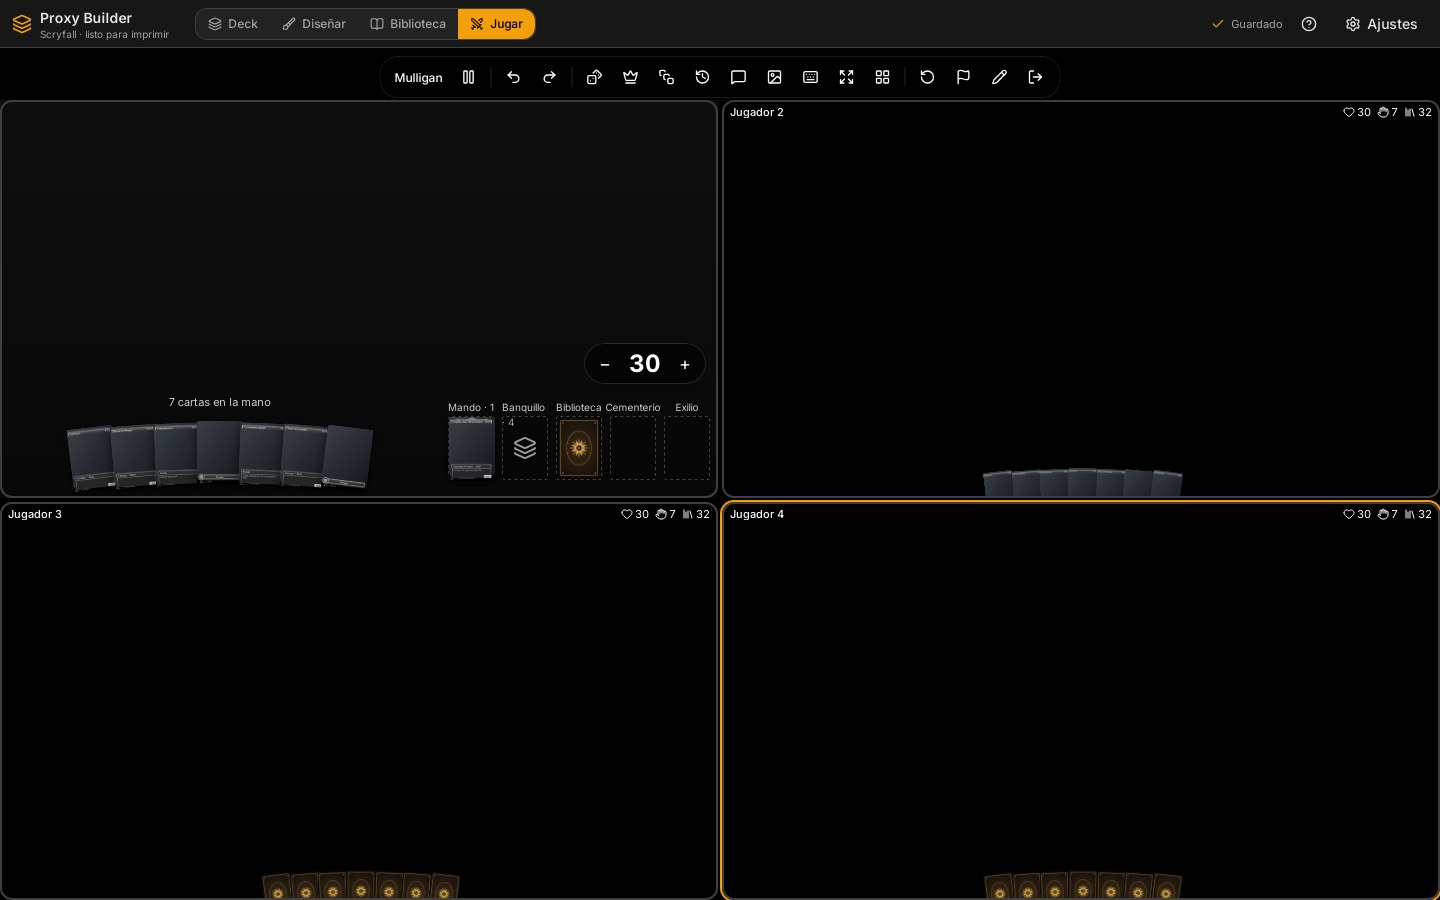
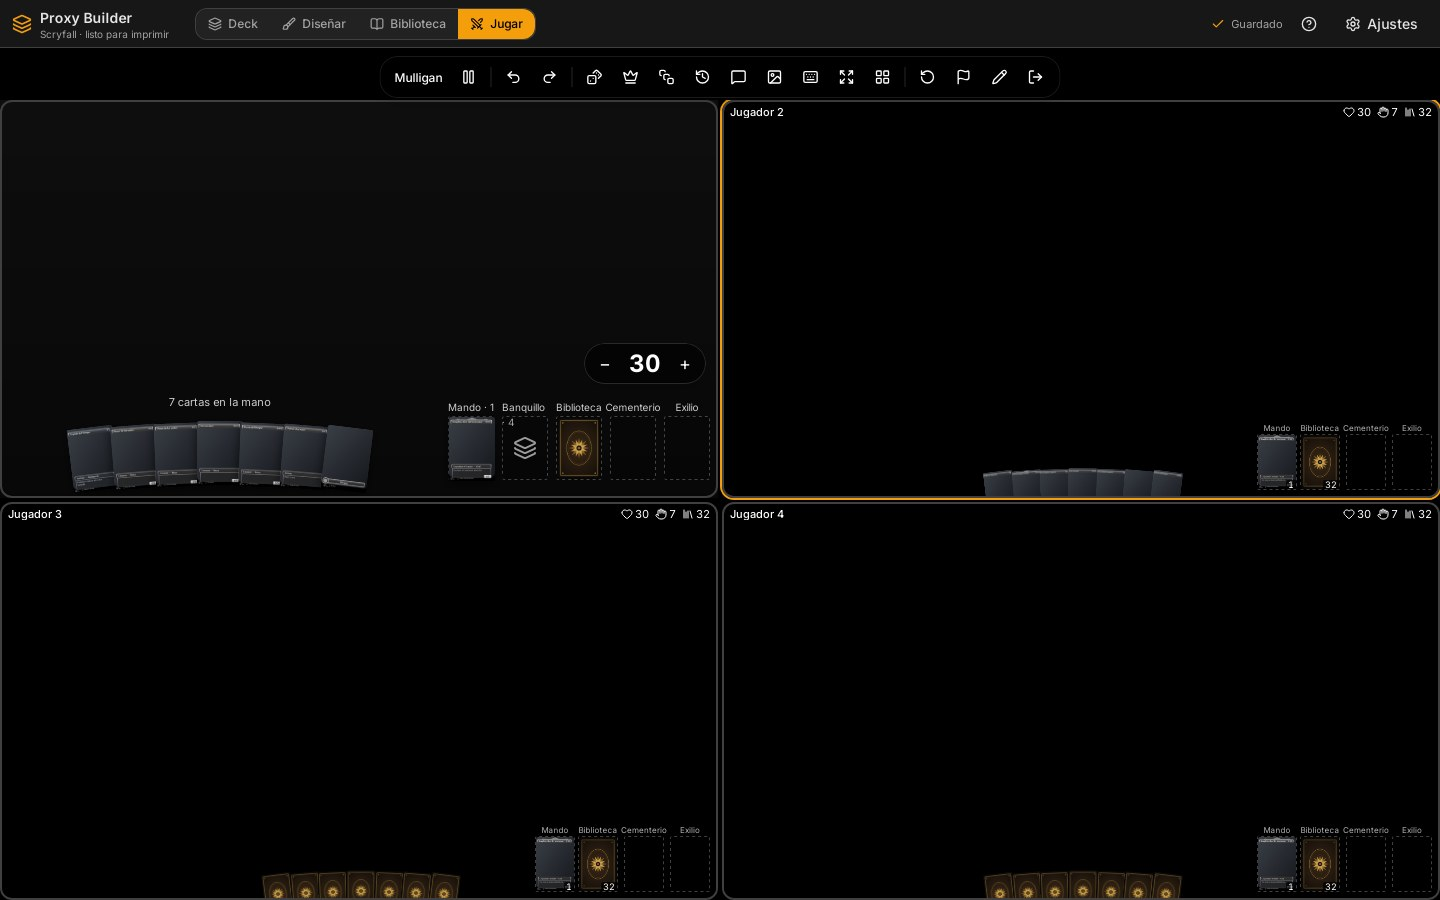
Mesa: las miniaturas enseñan mando, biblioteca, cementerio y exilio como tu tablero; parches del wiki
Claude-Session: https://claude.ai/code/session_01X7oLZsQ3STyBm3NGJHyhVB

diff --git a/src/features/mesa/tablero-mini.tsx b/src/features/mesa/tablero-mini.tsx
@@ -34,9 +34,15 @@ type DatosMini = {
 	/** Las cartas de la mano que este mirador ve (la de un compañero); el resto, reversos. */
 	manoVista: VistaCarta[];
 	biblioteca: number;
+	/** La de arriba de cada zona a la vista (la última de la lista) y cuántas hay. */
+	cementerio: ArribaMini;
+	exilio: ArribaMini;
+	mando: ArribaMini;
 	activo: boolean;
 	equipo: Equipo | undefined;
 };
+
+type ArribaMini = { carta: VistaCarta | null; n: number };
 
 /** Lo que enseña la miniatura de `jugador`, sacado de la mesa. */
 export function datosMini(
@@ -54,15 +60,30 @@ export function datosMini(
 		const c = m.cartas[id];
 		if (c) manoVista.push(c);
 	}
+	const arriba = (zona: "cementerio" | "exilio" | "mando"): ArribaMini => {
+		const ids = cartasDe(m, zonaDe(jugador, zona));
+		const id = ids[ids.length - 1];
+		return {
+			carta: id !== undefined ? (m.cartas[id] ?? null) : null,
+			n: cuantasEn(m, zonaDe(jugador, zona)),
+		};
+	};
 	return {
 		j,
 		campo,
+		cementerio: arriba("cementerio"),
+		exilio: arriba("exilio"),
+		mando: arriba("mando"),
 		mano: cuantasEn(m, zonaDe(jugador, "mano")),
 		manoVista,
 		biblioteca: cuantasEn(m, zonaDe(jugador, "biblioteca")),
 		activo: m.general?.turno.activo === jugador,
 		equipo: j?.equipo != null ? m.general?.equipos.find((e) => e.id === j.equipo) : undefined,
 	};
+}
+
+function igualArriba(a: ArribaMini, b: ArribaMini): boolean {
+	return a.carta === b.carta && a.n === b.n;
 }
 
 /** Dos lecturas de la misma miniatura que se pintarían igual. */
@@ -72,6 +93,9 @@ export function igualMini(a: DatosMini, b: DatosMini): boolean {
 		a.mano === b.mano &&
 		igualesLista(a.manoVista, b.manoVista) &&
 		a.biblioteca === b.biblioteca &&
+		igualArriba(a.cementerio, b.cementerio) &&
+		igualArriba(a.exilio, b.exilio) &&
+		igualArriba(a.mando, b.mando) &&
 		a.activo === b.activo &&
 		a.equipo === b.equipo &&
 		igualesLista(a.campo, b.campo)
@@ -161,6 +185,7 @@ export const TableroMini = memo(function TableroMini({
 						)}
 					</span>
 					{conCampo && d.mano > 0 && <ManoMini d={d} w={w} ancho={ancho} />}
+					{conCampo && <ZonasMini d={d} w={w} h={h} ancho={ancho} />}
 					{conCampo &&
 						d.campo.map((c) => {
 							if (!c.pos || c.adjuntaA !== null || c.agrupadaBajo !== null) return null;
@@ -258,3 +283,94 @@ function ManoMini({ d, w, ancho }: { d: DatosMini; w: number; ancho: number }) {
 		</span>
 	);
 }
+
+/**
+ * Las zonas de un jugador en pequeño, como en el tablero grande: el mando, la
+ * biblioteca (con su reverso) y el cementerio y el exilio con la carta de
+ * arriba boca arriba (si se ve), cada una con cuántas tiene. En una
+ * miniatura ancha van en fila abajo a la derecha, con su nombre, como en tu
+ * tablero; en una estrecha, en columna a la derecha.
+ */
+function ZonasMini({ d, w, h, ancho }: { d: DatosMini; w: number; h: number; ancho: number }) {
+	const { t } = useLang();
+	const zonas: {
+		clave: string;
+		nombre: string;
+		carta: VistaCarta | null;
+		n: number;
+		dorso?: boolean;
+	}[] = [];
+	if (d.mando.n > 0) zonas.push({ clave: "mando", nombre: t("Mando"), ...d.mando });
+	zonas.push({
+		clave: "biblioteca",
+		nombre: t("Biblioteca"),
+		carta: null,
+		n: d.biblioteca,
+		dorso: true,
+	});
+	zonas.push({ clave: "cementerio", nombre: t("Cementerio"), ...d.cementerio });
+	zonas.push({ clave: "exilio", nombre: t("Exilio"), ...d.exilio });
+	const enFila = w >= FILA_ZONAS;
+	const altoMax = (Math.max(14, Math.min(ancho * 1.1, 40)) * 88) / 63;
+	let th: number;
+	if (enFila) {
+		th = Math.min(altoMax, (h - CABECERA) * 0.3);
+	} else {
+		// Lo que queda entre la cabecera y la franja de la mano.
+		const cwMano = Math.max(12, Math.min(ancho, 30));
+		const franja = d.mano > 0 ? ((cwMano * 88) / 63) * 0.62 + 4 : 0;
+		const hueco = h - CABECERA - franja - 6;
+		th = Math.min(altoMax, (hueco - (zonas.length - 1) * 3) / zonas.length);
+	}
+	if (th < 14) return null;
+	const tw = (th * 63) / 88;
+	const conNombre = enFila && th >= 34;
+	return (
+		<span
+			className={cn(
+				"pointer-events-none absolute z-[9100] flex gap-[3px]",
+				enFila ? "right-1.5 bottom-1.5 items-end" : "right-1 flex-col",
+			)}
+			style={enFila ? undefined : { top: CABECERA + 3 }}
+		>
+			{zonas.map((z) => (
+				<span key={z.clave} className="flex flex-col items-center gap-0.5">
+					{conNombre && (
+						<span className="text-[8px] leading-none whitespace-nowrap text-white/70">
+							{z.nombre}
+						</span>
+					)}
+					<span
+						className="pointer-events-auto relative block overflow-hidden rounded-[2px] border border-dashed border-white/25 bg-black/50"
+						style={{ width: tw, height: th }}
+						aria-label={`${z.nombre}: ${z.n}`}
+						data-zona={z.clave}
+						onPointerEnter={() => z.carta && useMesa.getState().setSobre(z.carta.id)}
+						onPointerLeave={() => {
+							if (z.carta && useMesa.getState().sobre === z.carta.id)
+								useMesa.getState().setSobre(null);
+						}}
+					>
+						{z.dorso && z.n > 0 ? (
+							d.j?.dorso ? (
+								<ImagenCarta imagen={d.j.dorso} ancho={146} />
+							) : (
+								<DorsoGenerico />
+							)
+						) : z.carta ? (
+							<ImagenCarta imagen={caraVisible(z.carta)} ancho={146} />
+						) : null}
+						{z.n > 0 && (
+							<span className="absolute right-0 bottom-0 rounded-tl-[2px] bg-black/75 px-0.5 text-[9px] leading-none tabular-nums">
+								{z.n}
+							</span>
+						)}
+					</span>
+				</span>
+			))}
+		</span>
+	);
+}
+
+/** Desde este ancho, las zonas de una miniatura van en fila (como en tu tablero). */
+const FILA_ZONAS = 400;

diff --git a/src/features/mesa/__tests__/tablero-mini.test.ts b/src/features/mesa/__tests__/tablero-mini.test.ts
@@ -65,6 +65,26 @@ describe("datosMini", () => {
 		expect(d.equipo).toBeUndefined();
 	});
 
+	it("de cementerio, exilio y mando, la de arriba (la última) y cuántas hay", () => {
+		const m = mesa();
+		m.cartas[20] = carta(20);
+		m.cartas[21] = carta(21);
+		m.cartas[30] = carta(30);
+		Object.assign(m.zonas, {
+			"1:cementerio": {
+				zona: { tipo: "de", jugador: 1, zona: "cementerio" },
+				cartas: [20, 21],
+				cuantas: 2,
+			},
+			"1:mando": { zona: { tipo: "de", jugador: 1, zona: "mando" }, cartas: [30], cuantas: 1 },
+		});
+		const d = datosMini(m, 1);
+		expect(d.cementerio.carta?.id).toBe(21);
+		expect(d.cementerio.n).toBe(2);
+		expect(d.mando.carta?.id).toBe(30);
+		expect(d.exilio).toEqual({ carta: null, n: 0 });
+	});
+
 	it("ignora las cartas del campo que no están en la mesa", () => {
 		const m = mesa();
 		delete m.cartas[11];

diff --git a/CLAUDE.md b/CLAUDE.md
@@ -253,7 +253,10 @@ le falta una cadena le sale la inglesa.
   con equipos los compañeros se ven la mano (`ve_la_mano_de_un_companero`,
   `Variantes.mano_privada_en_equipo` la apaga; el oráculo de
   `tests/comun::sin_fugas` lleva la misma regla). Las manos de las
-  miniaturas van en abanico sutil (`abanico` de `disposicion.ts`, a escala).
+  miniaturas van en abanico sutil (`abanico` de `disposicion.ts`, a escala),
+  y con sus zonas como en tu tablero (`ZonasMini`: mando, biblioteca con el
+  reverso, cementerio y exilio con la de arriba). Sin reverso propio, la mesa
+  usa el de la app (`Blobs::generic_back`), no uno dibujado.
   **Historial general** (Fase J; Pablo, 27/10/2026): `partidas_todas(limite,
   desde)` → `HistorialGeneral` (todas las partidas de todos los decks, por
   páginas); cada `JugadorHistorial` lleva la lista para jugar usada
